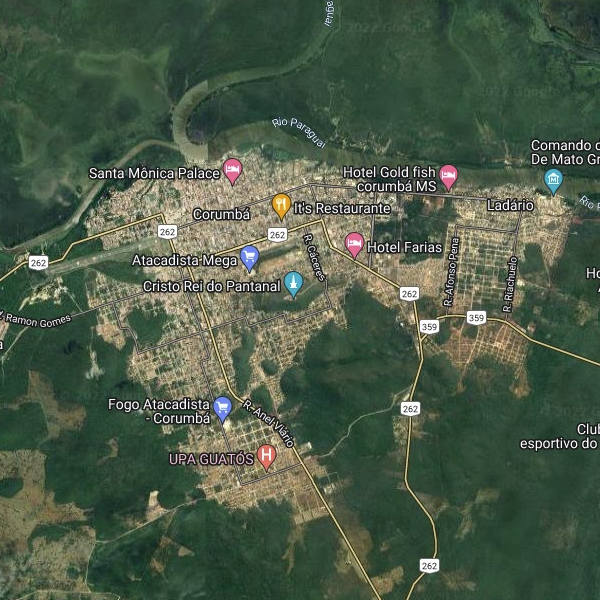
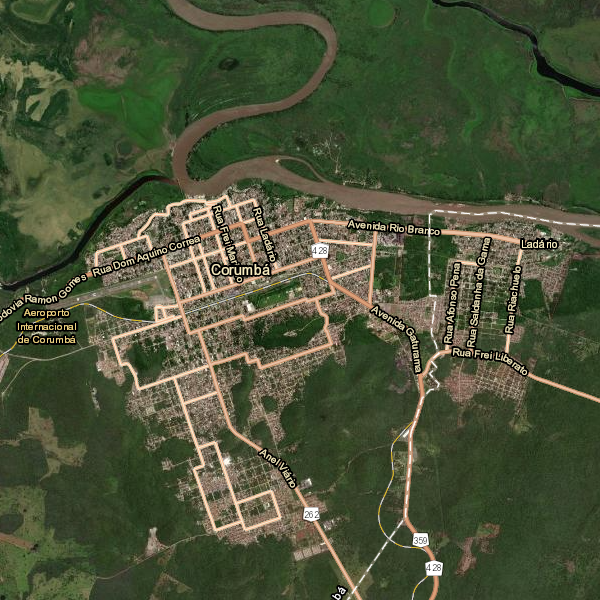
Melhorias nas configurações de tileLayers.

diff --git a/src/pages/Map.tsx b/src/pages/Map.tsx
@@ -164,9 +164,10 @@ export function Map() {
           doubleClickZoom
         >
           <ZoomControl position="bottomright" />
-          {tileLayer === 'satellite' && <TileLayer url="https://server.arcgisonline.com/arcgis/rest/services/World_Imagery/MapServer/tile/{z}/{y}/{x}" />}
-          {tileLayer === 'street' && <TileLayer url="https://tile.openstreetmap.org/{z}/{x}/{y}.png" />}
-          {tileLayer === 'hybrid' && <TileLayer url="https://{s}.google.com/vt/lyrs=s,h&x={x}&y={y}&z={z}" subdomains={['mt0', 'mt1', 'mt2', 'mt3']} />}
+          {(tileLayer === 'satellite' || tileLayer === 'hybrid') && <TileLayer url="https://server.arcgisonline.com/arcgis/rest/services/World_Imagery/MapServer/tile/{z}/{y}/{x}" />}
+          {tileLayer === 'street' && <TileLayer url="http://services.arcgisonline.com/arcgis/rest/services/World_Street_Map/MapServer/tile/{z}/{y}/{x}" />}
+          {tileLayer === 'hybrid' && <TileLayer url="http://services.arcgisonline.com/arcgis/rest/services/Reference/World_Transportation/MapServer/tile/{z}/{y}/{x}" />}
+          {tileLayer === 'hybrid' && <TileLayer url="http://services.arcgisonline.com/arcgis/rest/services/Reference/World_Boundaries_and_Places/MapServer/tile/{z}/{y}/{x}" />}
 
           <GeoJSON data={pantanal} pathOptions={defaultPantanalStyle} />
 
